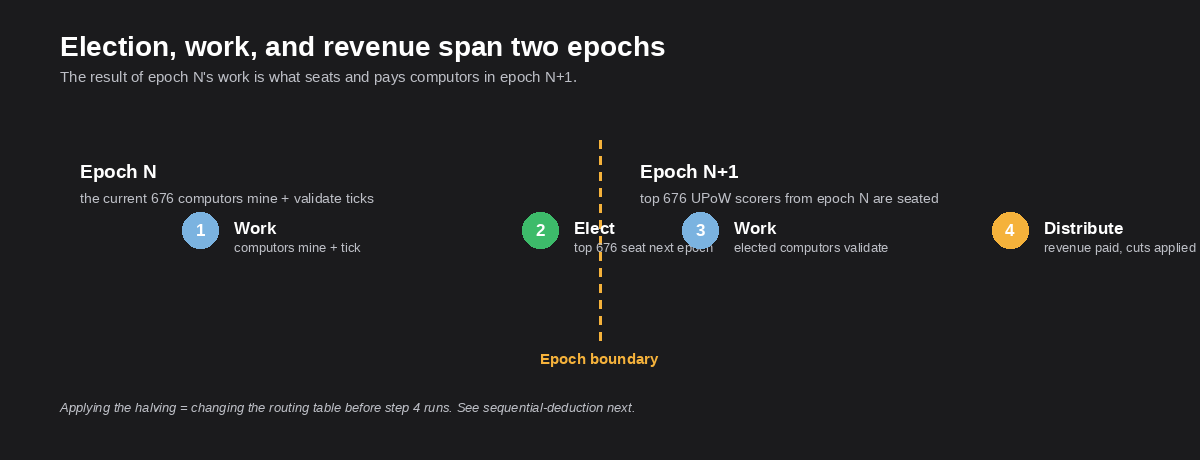
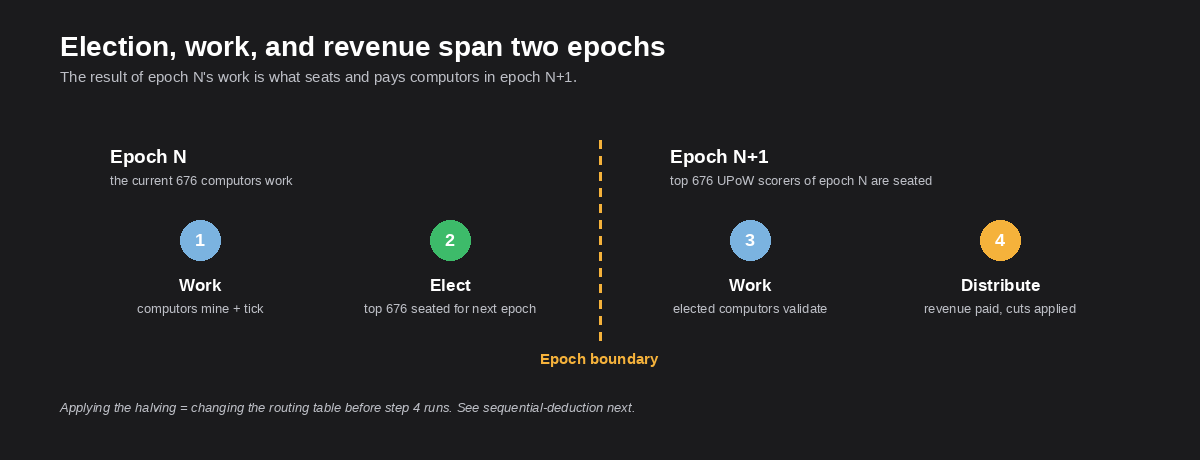
docs(learn): fix text overlap in multi-epoch diagram
Roger: 'the first graphic election, work... has many text overlays.
e.g. text of point 2 is behind point 3.'

Cause: step labels + sub text were positioned to the RIGHT of each
badge (x + 34), so step 2's sub text 'top 676 seat next epoch'
extended horizontally into step 3's badge zone.

Fix: stack each step's text vertically below the badge with
text_center(). Steps are also evenly spaced (200, 450, 750, 1000)
so each has ~250 px of horizontal room — no text collides with
adjacent badges.

Also:
- Moved 'Epoch N' + 'Epoch N+1' column headers slightly inward so
  they don't hug the epoch-boundary line.
- Refined column sub-labels to be more compact ('the current 676
  computors work' / 'top 676 UPoW scorers of epoch N are seated').

diff --git a/static/img/_generate_emission_diagrams.py b/static/img/_generate_emission_diagrams.py
@@ -99,7 +99,7 @@ def multi_epoch_flow(mode):
            "The result of epoch N's work is what seats and pays computors in epoch N+1.",
            font=f(15, "reg"), fill=c["text_sub"])
 
-    # Two-epoch bar with 4 stops (same visual language as upgrading-tick-continuity)
+    # Epoch boundary dashed line
     def dashed_vline(x, y0, y1, color, dash=8, width=3):
         y = y0
         while y < y1:
@@ -111,29 +111,32 @@ def multi_epoch_flow(mode):
     d.text((epoch_x - 60, 350), "Epoch boundary",
            font=f(15, "bld"), fill=GOLD)
 
-    # Left half (Epoch N) — computors work
-    d.text((80, 160), "Epoch N", font=f(19, "bld"), fill=c["text"])
-    d.text((80, 190), "the current 676 computors mine + validate ticks",
-           font=f(14, "reg"), fill=c["text_sub"])
+    # Epoch column headers — offset from the boundary so text doesn't touch it
+    d.text((110, 145), "Epoch N", font=f(19, "bld"), fill=c["text"])
+    d.text((110, 173), "the current 676 computors work",
+           font=f(13, "reg"), fill=c["text_sub"])
+    d.text((epoch_x + 70, 145), "Epoch N+1", font=f(19, "bld"), fill=c["text"])
+    d.text((epoch_x + 70, 173),
+           "top 676 UPoW scorers of epoch N are seated",
+           font=f(13, "reg"), fill=c["text_sub"])
 
-    # Right half (Epoch N+1) — election result seats new computors
-    d.text((epoch_x + 40, 160), "Epoch N+1", font=f(19, "bld"), fill=c["text"])
-    d.text((epoch_x + 40, 190),
-           "top 676 UPoW scorers from epoch N are seated",
-           font=f(14, "reg"), fill=c["text_sub"])
-
-    # 4 numbered steps along the timeline
+    # 4 numbered steps — evenly spaced, text stacked vertically below each badge.
+    # Step 2 sits just left of boundary (end of epoch N), step 3 just right (start
+    # of epoch N+1). Each step gets ~250 px of horizontal room, so no text collides.
     step_data = [
-        (200, 230, "1", "Work",     "computors mine + tick",      BLUE),
-        (epoch_x - 60, 230, "2", "Elect",  "top 676 seat next epoch",    GREEN),
-        (epoch_x + 100, 230, "3", "Work",  "elected computors validate", BLUE),
-        (W - 190, 230, "4", "Distribute", "revenue paid, cuts applied", GOLD),
+        (200,  "1", "Work",       "computors mine + tick",       BLUE),
+        (450,  "2", "Elect",      "top 676 seated for next epoch", GREEN),
+        (750,  "3", "Work",       "elected computors validate",   BLUE),
+        (1000, "4", "Distribute", "revenue paid, cuts applied",   GOLD),
     ]
-    for x, y, num, label, sub, color in step_data:
-        d.ellipse([x - 18, y - 18, x + 18, y + 18], fill=color)
-        text_center(d, x, y, num, f(17, "bld"), WHITE)
-        d.text((x + 34, y - 12), label, font=f(17, "bld"), fill=c["text"])
-        d.text((x + 34, y + 10), sub, font=f(13, "reg"), fill=c["text_sub"])
+    badge_y = 240
+    for x, num, label, sub, color in step_data:
+        # Badge
+        d.ellipse([x - 20, badge_y - 20, x + 20, badge_y + 20], fill=color)
+        text_center(d, x, badge_y, num, f(18, "bld"), WHITE)
+        # Label + sub, centered below the badge
+        text_center(d, x, badge_y + 45, label, f(17, "bld"), c["text"])
+        text_center(d, x, badge_y + 70, sub, f(13, "reg"), c["text_sub"])
 
     # Bottom explanatory line
     d.text((60, 400),
